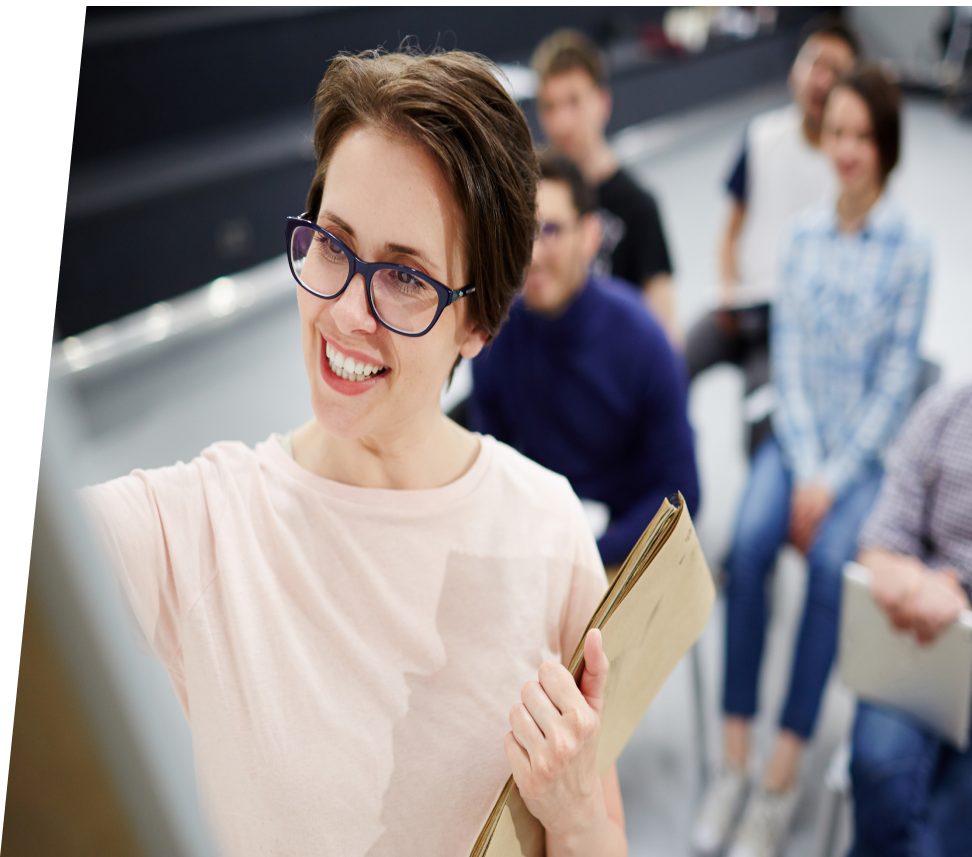
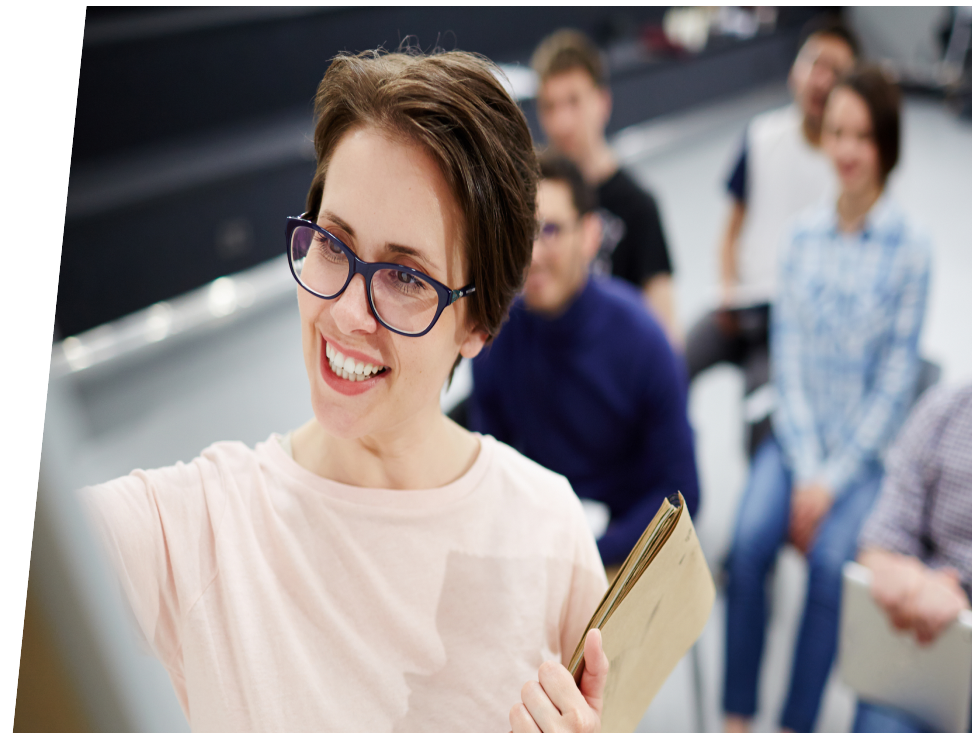
added fixes

diff --git a/src/pages/chat/chat.jsx b/src/pages/chat/chat.jsx
@@ -496,19 +496,19 @@ const ChatWindow = () => {
                                                             >
                                                                 {msg.sender_id !==
                                                                     senderId &&
-                                                                    messageUser && (
-                                                                        <div className="avatar small">
-                                                                            <img
-                                                                                src={
-                                                                                    messageUser.user_picture
-                                                                                }
-                                                                                alt={
-                                                                                    messageUser.full_name
-                                                                                }
-                                                                                className="user-picture-inside-chat"
-                                                                            />
-                                                                        </div>
-                                                                    )}
+                                                                messageUser &&
+                                                                messageUser.user_picture ? (
+                                                                    <div className="avatar small">
+                                                                        <img
+                                                                            src={
+                                                                                messageUser.user_picture
+                                                                            }
+                                                                            className="user-picture-inside-chat"
+                                                                            alt="User Avatar"
+                                                                        />
+                                                                    </div>
+                                                                ) : null}
+
                                                                 <div className="message-content">
                                                                     <p>
                                                                         {

diff --git a/src/pages/auth/home.css b/src/pages/auth/home.css
@@ -12,6 +12,7 @@
     justify-content: space-between;
     align-items: center;
     background-color: #ffffff;
+	
 }
 
 .signin-container {
@@ -61,14 +62,14 @@
 }
 
 .logo {
-    width: 271px;
-    height: 271px;
+    width: 240px;
+    height: 240px;
 }
 
 .heading {
     font-weight: 600;
     font-size: 72px;
-    line-height: 74px;
+    line-height: 32px;
     color: #1d2026;
     margin-bottom: 10px;
     margin-top: 10px;
@@ -98,8 +99,6 @@
     cursor: pointer;
     font-size: 16px;
     transition: background-color 0.3s;
-    margin-top: 40px;
-    margin-bottom: 40px;
 }
 
 .register-button:hover {
@@ -109,12 +108,12 @@
 .right-side {
     flex: 1;
     display: flex;
-    justify-content: center;
+    justify-content: end;
     align-items: center;
 }
 
 .right-image {
-    max-width: 100%;
+    max-width: 90%;
     height: auto;
 }
 
@@ -327,7 +326,6 @@
 .heading {
     font-size: 32px;
     font-weight: 600;
-    margin-bottom: 30px;
     color: #1d2026;
 }
 

diff --git a/src/pages/Admin/AddAnnouncement.jsx b/src/pages/Admin/AddAnnouncement.jsx
@@ -110,7 +110,7 @@ function AddAnnouncement() {
             onChange={handleDateChange}
             style={{ width: "100%" }}
             format="DD-MM-YYYY"
-            placeholder="Select "
+            placeholder="Select Date"
           />
         </Form.Item>
 
